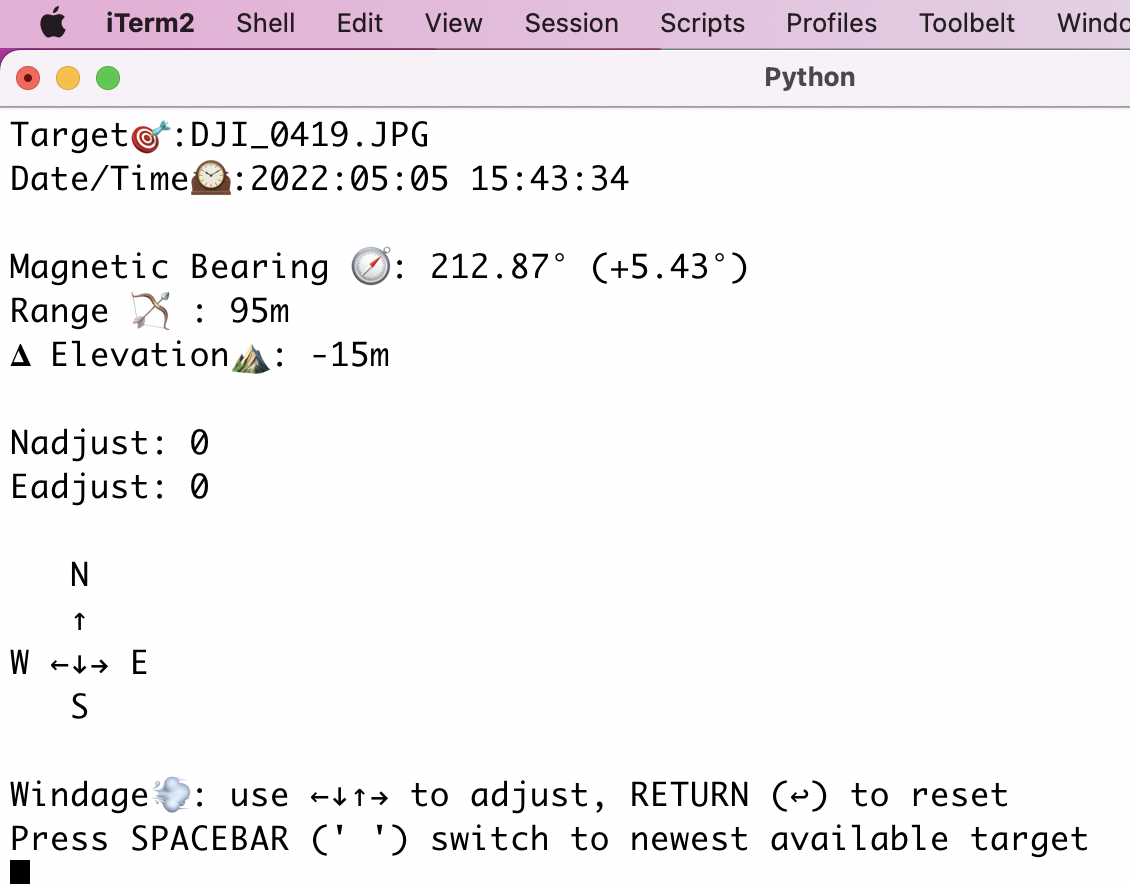
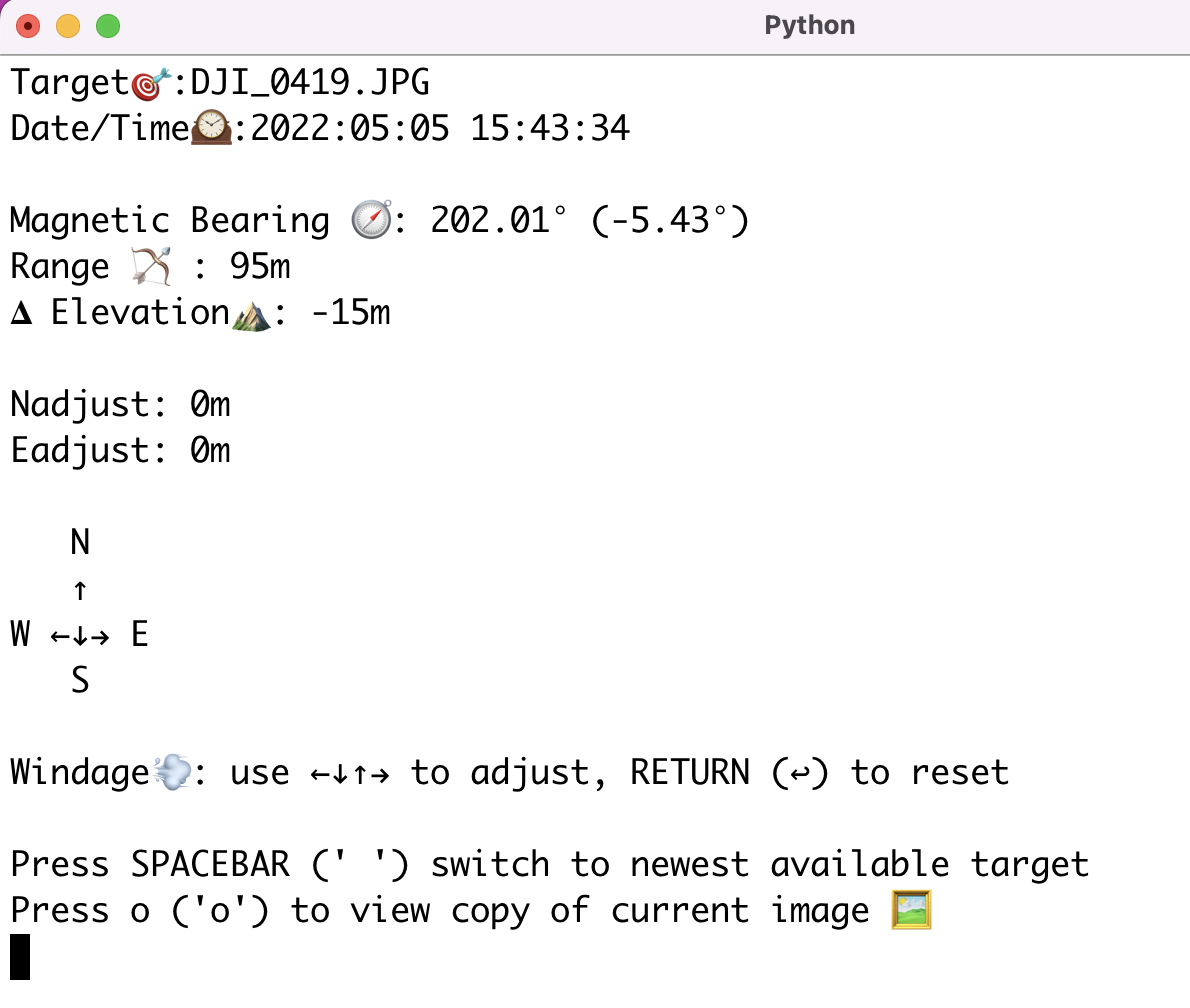
find_me_mode allow user to view current target image 🎯🖼

diff --git a/src/find_me_mode.py b/src/find_me_mode.py
@@ -24,8 +24,11 @@ from osgeo import gdal # en.wikipedia.org/wiki/GDAL
 # https://pypi.org/project/mgrs/
 import mgrs # Military Grid ref converter
 
+import tkinter
+
 from PIL import Image
 from PIL import ExifTags
+from PIL import ImageTk
 
 import parseImage
 from parseGeoTIFF import getAltFromLatLon, binarySearchNearest
@@ -196,6 +199,8 @@ def find_me_mode():
     Nadjust = decimal.Decimal(0.0)
     Eadjust = decimal.Decimal(0.0)
 
+    rootTk = tkinter.Tk()
+
     while True: # only break if list is empty after file walk
         files_queued = []
         for aTuple in targets_queued:
@@ -328,6 +333,7 @@ def find_me_mode():
             # Eadjust = decimal.Decimal(0.0)
 
             inkey = _Getch()
+            # render = None
 
             while not ' ' in ch:
                 clear()
@@ -356,7 +362,9 @@ def find_me_mode():
                 print("   S ")
                 print("")
                 print("Windage💨: use ←↓↑→ to adjust, RETURN (↩) to reset")
+                print("")
                 print("Press SPACEBAR (' ') switch to newest available target")
+                print("Press o ('o') to view copy of current image 🖼")
 
                 if 'MAX' in imgName:
                     warnStr = '\033[1;31;m' #ANSI escape sequence, bold and red
@@ -365,6 +373,8 @@ def find_me_mode():
                     warnStr += '    PROCEED WITH CAUTION '
                     warnStr +="\033[0;0m" #ANSI escape sequence, reset terminal to normal colors
                     print(warnStr)
+
+
 
                 while(True):
                     ch = inkey()
@@ -381,9 +391,39 @@ def find_me_mode():
                     Eadjust += decimal.Decimal(4.0)
                 elif ch == '\x1b[D':
                     Eadjust -= decimal.Decimal(4.0)
-                elif '\r' in ch:
+                elif ch == '\r':
                     Nadjust = 0
                     Eadjust = 0
+                elif ch.lower() == 'o' or ch == 'о' or ch == 'ο': # latin o, cyrillic о, greek ο (omicron)
+                    # if render is not None:
+                    #     render.close()
+                    #     render = None
+                    # else:
+                    try:
+                        filepath = os.path.join(directory, imgName)
+                        render = Image.open(filepath)
+                        render.show(title=imgName)
+                    except:
+                        print("Error: failed to load image {imgName}")
+                        time.sleep(1)
+
+                    # rootTk.title(imgName)
+                    # filepath = os.path.join(directory, imgName)
+                    # render = ImageTk.PhotoImage(file=filepath)
+                    # Label(
+                    #     rootTK,
+                    #     image = render
+                    #     ).pack
+                    # rootTK.mainloop() # blocks main thread, use Toplevel instead: stackoverflow.com/a/52976584
+
+                    # label = tkinter.Label(rootTk)
+                    # filepath = os.path.join(directory, imgName)
+                    # img = Image.open(filepath)
+                    # label.img = ImageTk.PhotoImage(img)
+                    # label.pack()
+                    # rootTk.mainloop()
+
+
 
             files_prosecuted.append(this[1])
 

diff --git a/find_me_mode.md b/find_me_mode.md
@@ -61,7 +61,12 @@ Windage adjustments do not affect the calculated altitude of a target.
 `Eadjust` represents the adjustment of the target location (in meters) east or west to compensate for windage or other factors.
 
 ### prosecuting multiple targets
+
 find_me_mode will find the newest available image to use as a target after each target is prosecuted. The user may press the SPACEBAR (' ') key to mark the current target as prosecuted and switch to the newest available target. By default, windage adjustments will persist to the display of the next target. The RETURN key (↩) may be used to reset `Nadjust` and `Eadjust` windage adjustments to 0m each.
+
+### view current target
+
+find_me_mode allows the user to view the image of the current target. The user may press the o ('o') key to open a temporary copy of the target's image. The resulting image view window may be closed by the user at the time of their choosing
 
 ### Autel sensor data warning
 Numerous in-accuracies have been observed in the sensor metadata of images taken by drones made by Autel Robotics. In many cases, this may result in in-accurate target resolutions. To inform the user of possible incorrect target resolutions, a prominent warning will appear in the output if the image filename contains `MAX`, as is the case by default for images taken by the Autel Evo II. At present only the filename is used to make this check and not the EXIF Make tag value
